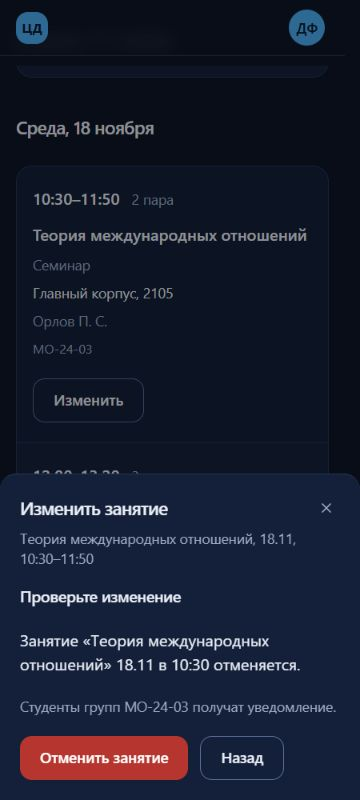
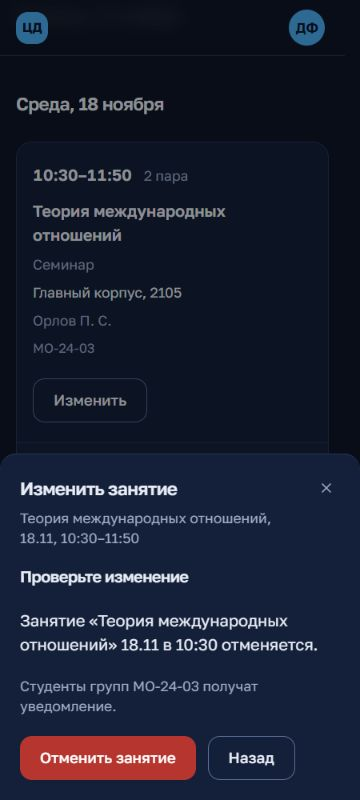
docs(staff): перепроверить мобильные снимки со штатным шрифтом

diff --git a/docs/process/ai-mistakes.md b/docs/process/ai-mistakes.md
@@ -145,3 +145,5 @@
 - **Правило:** сверять актуальную базу с участником при сообщении о новой версии и не выдавать проверку прежнего интерфейса за приёмку нового.
 
 - **Уточнение после паузы:** участник сообщил, что новый фронтенд ещё не отправлен в GitHub, и разрешил продолжить на опубликованном. Работа возобновлена на текущей базе; совместимость с будущим фронтендом не заявляется.
+
+- **Проверка окружения QA:** первые новые снимки использовали резервный шрифт: Vite worktree запрещал чтение woff2 через junction общих node_modules. После обнаружения 403 в логе временный локальный конфиг вне репозитория разрешил только каталог фронтенда и общих зависимостей. Подтверждена загрузка Golos Text Variable, обе темы и размеры проверены повторно; снимки заменены до итогового отчёта. Конфигурация проекта не менялась.

diff --git a/docs/process/review-t14.md b/docs/process/review-t14.md
@@ -17,6 +17,8 @@
 
 Браузерная перепроверка опубликованного интерфейса: 360×800, тёмная тема — подтверждение отмены с красной кнопкой «Отменить занятие»; светлая — подтверждение смены аудитории с отдельной кнопкой. После сохранения получен тост «Аудитория изменена», строка расписания обновилась. При 360 и 1280 px горизонтального переполнения нет; настройки темы и viewport восстановлены.
 
+Оба снимка пересозданы со штатным Golos Text Variable: проверены `document.fonts.status=loaded` и `document.fonts.check(...) = true`. Для worktree с общей папкой node_modules использовался временный локальный Vite-конфиг, разрешающий чтение шрифтов из этой папки; конфигурация проекта не менялась.
+
 ![Отмена, 360 px, тёмная тема](screenshots/t14/review-cancel-360-dark.jpg)
 
 ![Аудитория, 360 px, светлая тема](screenshots/t14/review-room-360-light.jpg)
